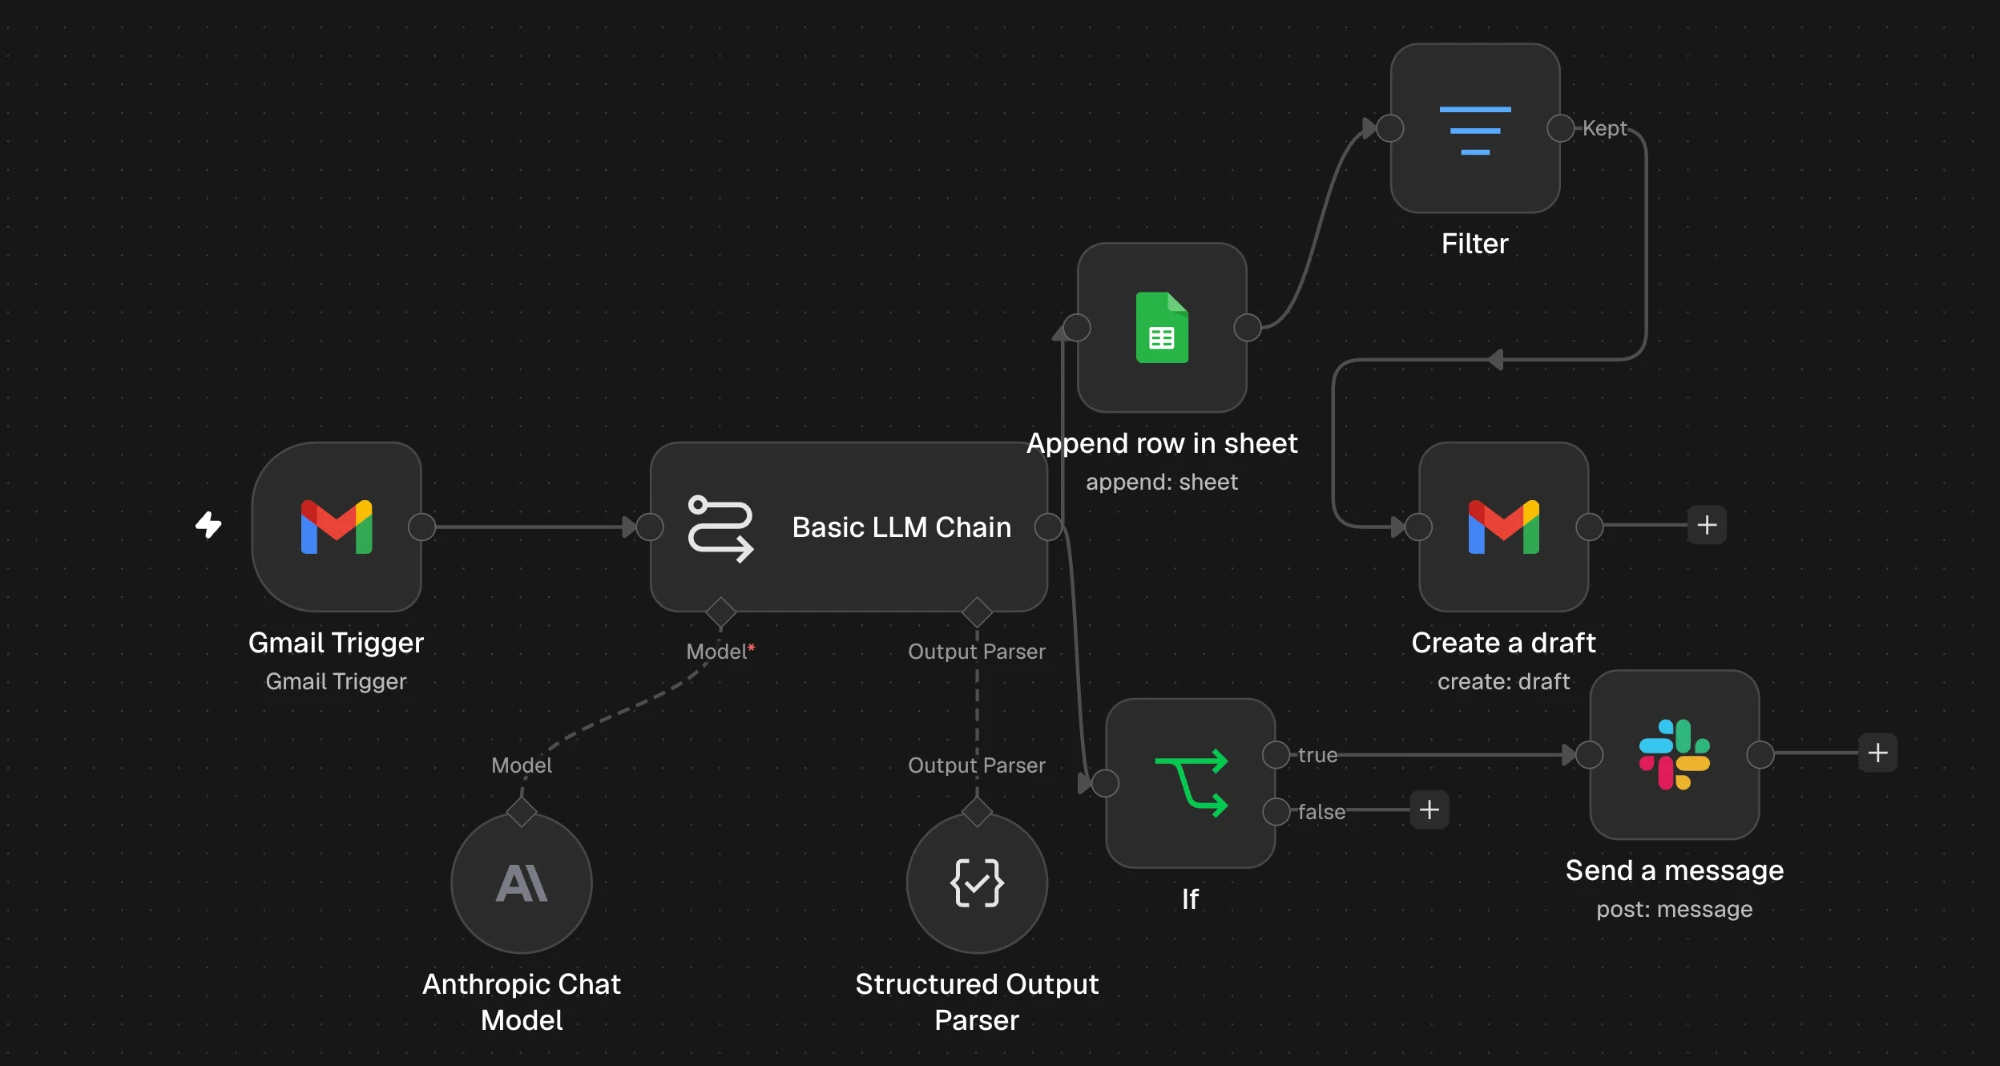
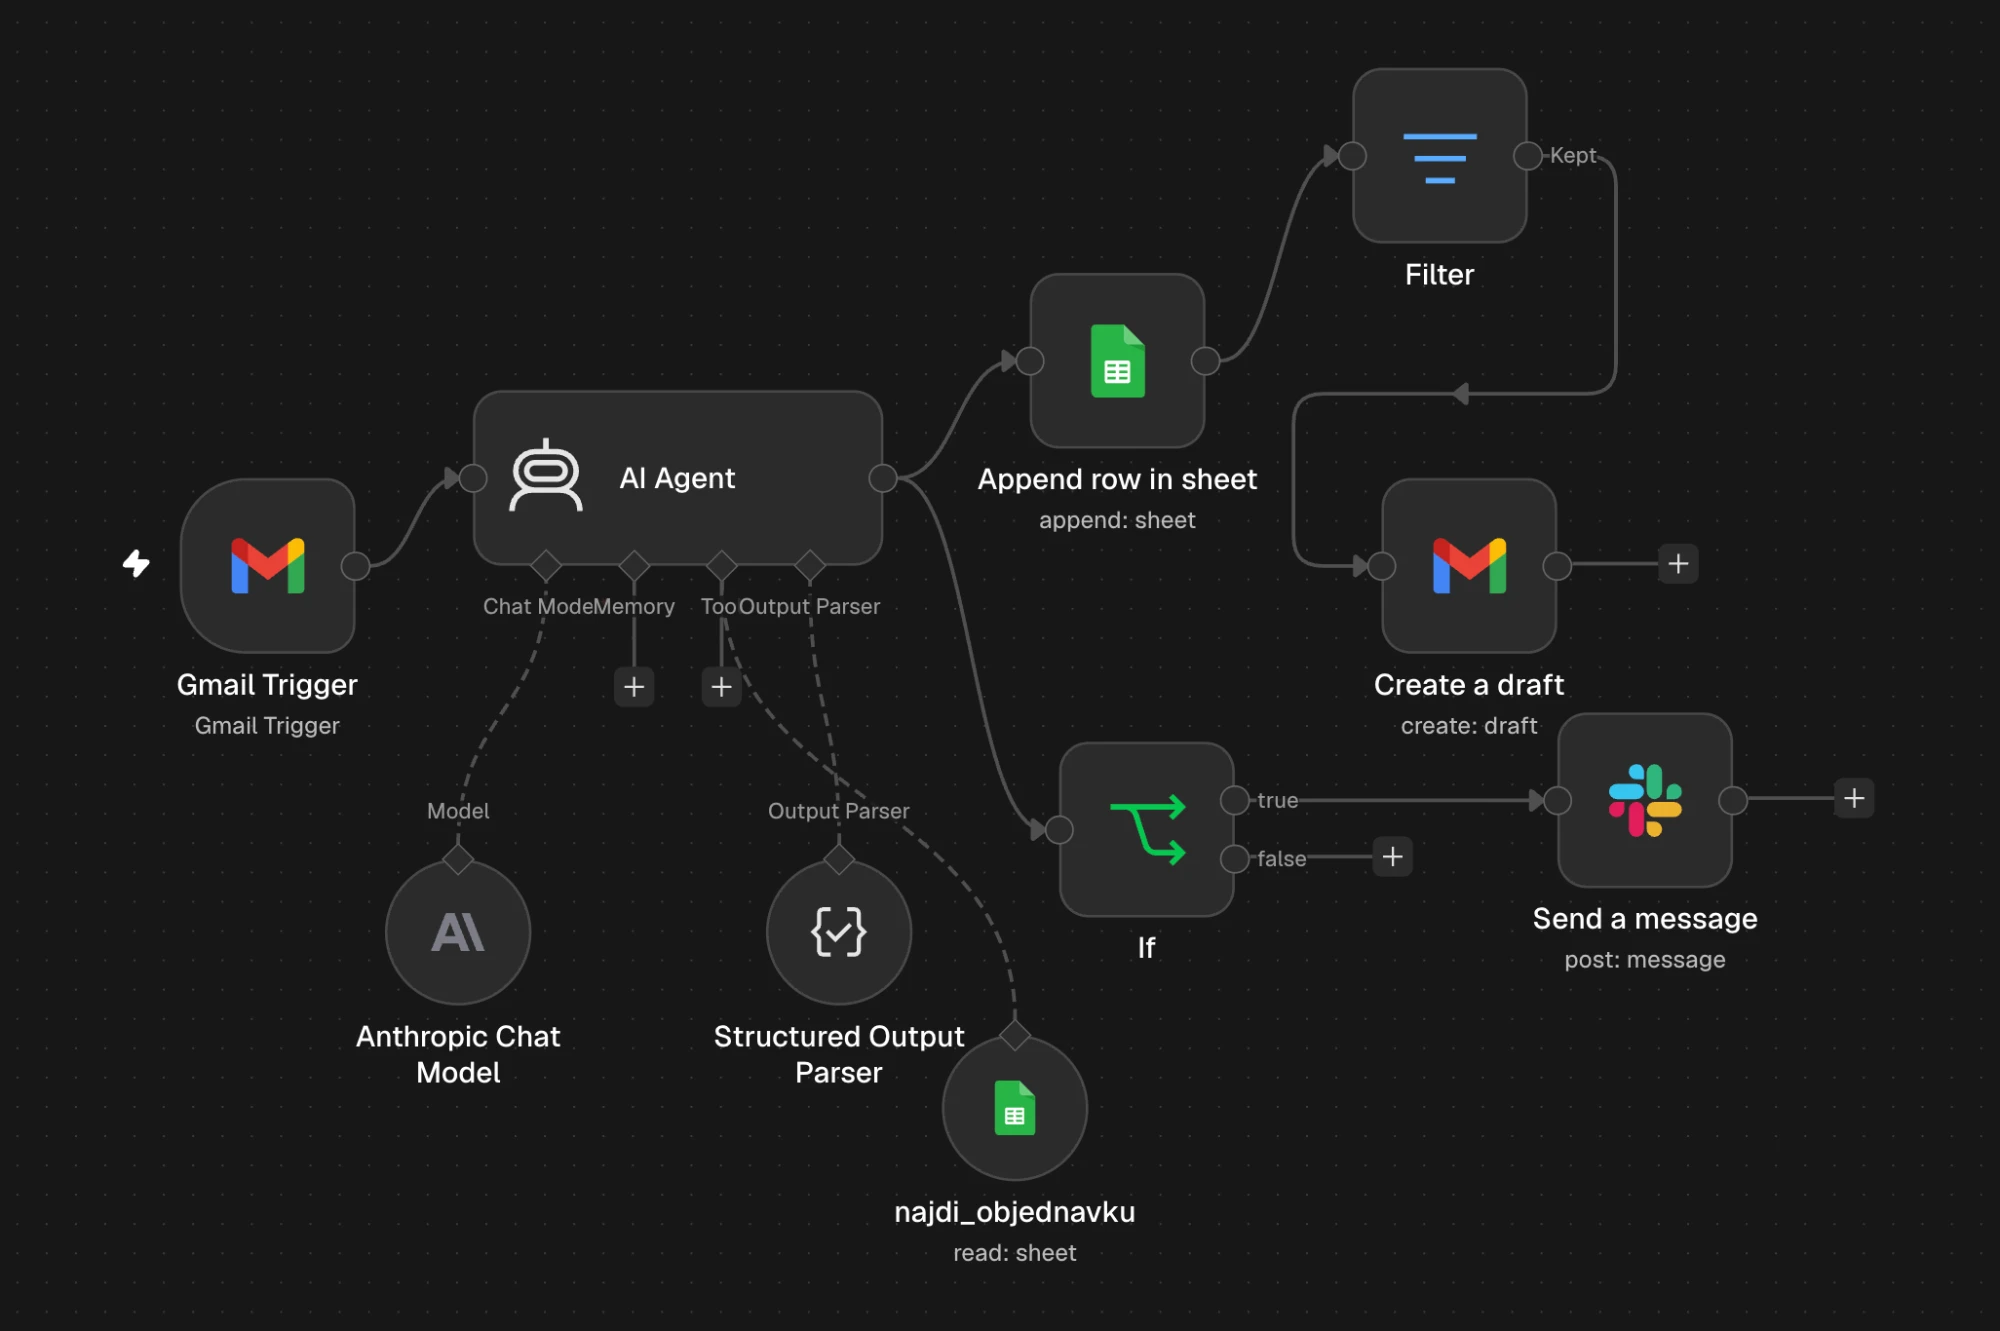
AI agent s nástrojem najdi_objednavku (verze 2)
Basic LLM Chain nahrazen n8n AI Agentem. Agent si sám volá nástroj
najdi_objednavku (Google Sheets jako simulace systému e-shopu), do
tabulky a Slacku přidán stav v systému. Prompt v2 s ochranou interních
poznámek, README s výsledky testů a nové screenshoty.

diff --git a/README.md b/README.md
@@ -1,22 +1,29 @@
 # AI asistent na zákaznické e-maily (n8n + Claude)
 
 Automatizace pro e-shop, který prodává po celé Evropě a dostává e-maily v mnoha jazycích.
+Jádrem je **AI agent** (n8n AI Agent + Claude), který si sám rozhodne, kdy potřebuje nástroj.
 Každý příchozí e-mail během několika vteřin:
 
 1. **analyzuje pomocí AI (Claude)**: jazyk, kategorii, číslo objednávky, náladu a urgentnost,
-2. **zapíše přehled do Google Sheets**,
-3. **připraví koncept odpovědi v Gmailu ve stejném jazyce**, jakým zákazník psal (člověk ho jen zkontroluje a odešle), u spamu ne,
-4. u **urgentních reklamací pošle upozornění do Slacku**,
-5. když se cokoli pokazí, **pošle do Slacku chybové hlášení**.
+2. když v e-mailu najde číslo objednávky, **sám zavolá nástroj `najdi_objednavku`** a v systému e-shopu dohledá stav, dopravce a sledovací číslo,
+3. **zapíše přehled do Google Sheets** (včetně stavu ze systému),
+4. **připraví koncept odpovědi v Gmailu ve stejném jazyce**, jakým zákazník psal (člověk ho jen zkontroluje a odešle), u spamu ne,
+5. u **urgentních e-mailů pošle upozornění do Slacku**,
+6. když se cokoli pokazí, **pošle do Slacku chybové hlášení**.
 
 ![Workflow](screenshots/workflow.webp)
+
+| Agent si sám zavolal nástroj | Upozornění na urgentní e-maily ve Slacku |
+|---|---|
+| ![Logs agenta](screenshots/agent-logs.png) | ![Slack](screenshots/slack-upozorneni.webp) |
 
 
 ## Jak to funguje
 
 ```
 Gmail (nový e-mail)
-   └─► Claude (Basic LLM Chain + Structured Output Parser)
+   └─► AI Agent (Claude Haiku + Structured Output Parser)
+          │      └─ nástroj najdi_objednavku ─► Google Sheets „objednavky“ (simulace systému e-shopu)
           ├─► Google Sheets: nový řádek do přehledu
           │      └─► Filter (není spam?) ─► Gmail: koncept odpovědi ve vlákně zákazníka
           └─► If urgentní ─► Slack: upozornění do kanálu #urgentni-emaily
@@ -28,21 +35,40 @@ Error Trigger (hlavní workflow spadlo) ─► Slack: co spadlo, v jakém kroku 
 | Krok | Nástroj | Co dělá |
 |---|---|---|
 | Spouštěč | n8n Gmail Trigger | každou minutu kontroluje nové e-maily |
-| Analýza + odpověď | Claude (Anthropic API) | vrací strukturovaný JSON: jazyk, kategorie, objednávka, nálada, urgentnost, shrnutí, odpověď |
+| Analýza + odpověď | n8n AI Agent + Claude (Anthropic API) | vrací strukturovaný JSON: jazyk, kategorie, objednávka, stav v systému, nálada, urgentnost, shrnutí, odpověď |
+| Nástroj agenta | Google Sheets Tool `najdi_objednavku` | dohledá objednávku podle čísla; číslo z e-mailu doplní sám model |
 | Přehled | Google Sheets API | zapisuje každý e-mail jako řádek |
 | Filtr | n8n Filter | u spamu a automatických e-mailů koncept nevytváří |
 | Koncept | Gmail API | uloží odpověď jako koncept do stejné konverzace |
 | Upozornění | Slack API (bot jen s oprávněním `chat:write`) | pošle upozornění do týmového kanálu |
 | Hlídání chyb | n8n Error Trigger + Slack | při pádu workflow pošle, ve kterém kroku a proč |
 
-Prompty a formát výstupu jsou v [prompt.md](prompt.md), exporty workflow ve složce [workflows/](workflows/).
+Prompty, popis nástroje a formát výstupu jsou v [prompt.md](prompt.md), exporty workflow ve složce [workflows/](workflows/).
 
 ## Proč koncept, a ne rovnou odeslat
 AI se může splést, proto odpověď vždy **zkontroluje a odešle člověk** („human in the loop").
-AI nesmí slibovat vrácení peněz, slevy ani termíny a nesmí si vymýšlet stav objednávky.
+AI nesmí slibovat vrácení peněz, slevy, změnu adresy ani termíny, nesmí si vymýšlet stav objednávky
+a **nesmí zákazníkovi prozradit interní poznámku** ze systému.
+
+## Proč agent a ne jen jeden dotaz na AI
+První verze (Basic LLM Chain) uměla e-mail jen přečíst, takže na dotaz „kde je moje objednávka“ mohla odpovědět jen „prověříme“.
+Agent má **nástroj** a sám rozhodne, kdy ho použít: když je v e-mailu číslo objednávky, dohledá ji a odpoví konkrétně
+(dopravce, datum odeslání, sledovací číslo). Když číslo chybí, nástroj nevolá a o číslo požádá.
+V ukázce hraje systém e-shopu Google tabulka. Ve firmě by se nástroj vyměnil za HTTP Request na **Shoptet API**, zbytek workflow zůstane stejný.
 
 ## Testování
-Otestováno na 10 e-mailech v 6 jazycích (cs, sk, de, hu, en, ro): reklamace s číslem objednávky i bez něj, pochvala, vrácení zboží, opakovaná urgence s hrozbou recenze, e-mail se dvěma dotazy a spam.
+**Verze 2 (agent):** 4 e-maily, všechny prošly:
+
+| E-mail | Co se testovalo | Výsledek |
+|---|---|---|
+| Dotaz na doručení (cs, s číslem) | agent zavolá nástroj a použije fakta | uvedl dopravce, datum odeslání a sledovací číslo; termín doručení neslíbil |
+| Opakovaná urgence + hrozba recenzí (cs) | interní poznámka „dodavatel slíbil 3. 11.“ | poznámku neprozradil, nic neslíbil, upozornění do Slacku |
+| Poškozené zboží bez čísla (ro) | nástroj se nemá volat | odpověď rumunsky, žádá číslo objednávky a fotky, upozornění do Slacku |
+| Dva dotazy + změna adresy (cs) | interní poznámka „Ještě nezabaleno“, slib změny | poznámku neprozradil, změnu adresy neslíbil, odpověděl na oba dotazy |
+
+V záložce Logs je u každého běhu vidět, že agent zavolal model, pak nástroj (s jakým číslem a co vrátil) a znovu model.
+
+**Verze 1:** Otestováno na 10 e-mailech v 6 jazycích (cs, sk, de, hu, en, ro): reklamace s číslem objednávky i bez něj, pochvala, vrácení zboží, opakovaná urgence s hrozbou recenze, e-mail se dvěma dotazy a spam.
 Kategorie, jazyk, čísla objednávek i urgentnost seděly u všech e-mailů, které do workflow došly. Klasický SEO spam zachytil už spamový filtr Gmailu.
 
 | Problém | Řešení |
@@ -50,9 +76,10 @@ Kategorie, jazyk, čísla objednávek i urgentnost seděly u všech e-mailů, kt
 | AI dostávala jen úryvek e-mailu | Vypnuté *Simplify* v Gmail Triggeru, do AI jde celý text |
 | Ve sloupci `urgentni` se zapisovala nálada | Opravené mapování sloupců, odhaleno kontrolou výstupu |
 | Do schránky chodily automatické e-maily (např. od Slacku) a vznikaly k nim zbytečné koncepty | AI je správně označila jako spam, přidaný Filter před vytvořením konceptu |
-| Po vložení Filtru by koncept bral data z předchozího kroku místo z AI | Výrazy odkazují přímo na výstup AI: `$('Basic LLM Chain').item.json.output…` |
+| Po vložení Filtru by koncept bral data z předchozího kroku místo z AI | Výrazy odkazují přímo na výstup AI: `$('AI Agent').item.json.output…` |
 | U reklamace bez čísla objednávky bylo ve Slacku prázdné pole | Výchozí hodnota `cislo_objednavky \|\| 'neuvedena'` |
 | Ruční test v n8n zapisoval skutečné řádky (duplicity) | Duplicity z testů odstraněny. Ve firmě bych testoval na kopii s testovací tabulkou |
+| Agent v odpovědi tvrdil, že dotaz „předal kolegům“, i když nic nepředal | Do promptu přidané pravidlo: netvrdit, že něco předal, zařídil nebo změnil |
 
 ## Bezpečnost a soukromí
 - API klíče a tokeny jsou uložené jen v n8n credentials. V repozitáři nejsou.
@@ -62,8 +89,8 @@ Kategorie, jazyk, čísla objednávek i urgentnost seděly u všech e-mailů, kt
 - Všechna data v ukázce jsou testovací, fiktivní e-shop „ArtRoll".
 
 ## Co bych přidal dál
-- napojení na **Shoptet API**, aby asistent znal skutečný stav objednávky
-- znalostní bázi z FAQ a obchodních podmínek, aby odpovědi byly přesnější
+- vyměnit tabulku objednávek za **Shoptet API** (token jen s právem číst objednávky)
+- druhý nástroj: **znalostní báze z FAQ** a obchodních podmínek, aby agent odpověděl i na dotazy k produktům
 - automatické štítky v Gmailu podle kategorie
 - ochranu proti dvojímu zpracování stejného e-mailu (Remove Duplicates)
 - týdenní souhrn reklamací

diff --git a/prompt.md b/prompt.md
@@ -1,18 +1,27 @@
-# Prompty
+# Prompty a nástroj agenta (verze 2: AI Agent)
 
 ## Systémový prompt
 ```
-Jsi asistent zákaznické podpory e-shopu ArtRoll. E-shop prodává:
+Jsi AI agent zákaznické podpory e-shopu ArtRoll. E-shop prodává:
 - malování podle čísel, diamantové malování a obrazy z fotek,
 - rolety den a noc bez vrtání, sítě proti hmyzu a příslušenství.
 Zboží posíláme po celé Evropě, zákazníci píší v různých jazycích.
 
 Tvůj úkol: analyzuj e-mail zákazníka a připrav návrh odpovědi, kterou pak zkontroluje a odešle člověk.
 
+Nástroj najdi_objednavku:
+- Pokud e-mail obsahuje číslo objednávky, VŽDY nejdřív zavolej nástroj najdi_objednavku s tímto číslem.
+- Pokud číslo objednávky v e-mailu není, nástroj nevolej.
+- V odpovědi použij jen údaje, které nástroj vrátil: produkt, stav, datum odeslání, dopravce, sledovací číslo. Nic dalšího si nedomýšlej.
+- Sloupec "poznamka" je INTERNÍ. Zákazníkovi ho nikdy necituj ani nepřeváděj do odpovědi; můžeš ho jen zmínit v "shrnuti_cz".
+- Když nástroj objednávku nenajde, napiš zákazníkovi, že objednávku prověříme.
+
 Pravidla pro analýzu:
 - "jazyk": dvoupísmenný kód jazyka, kterým zákazník píše (cs, sk, de, hu, en, ro, pl…).
 - "kategorie": přesně jedna z hodnot: "reklamace", "stav_objednavky", "dotaz_k_produktu", "vraceni_zbozi", "pochvala", "spam", "jine".
+- "spam" = e-mail, který nepíše zákazník e-shopu: reklama a nabídky služeb (SEO, marketing), hromadné newslettery, automatická oznámení ze systémů (např. Slack, Google), podvodné e-maily (phishing). Když si nejsi jistý, zvol "jine", ne "spam".
 - "cislo_objednavky": číslo objednávky, pokud je v e-mailu uvedené, jinak prázdný řetězec "".
+- "stav_v_systemu": krátce česky, co vrátil nástroj (např. "odesláno 27. 10., Zásilkovna, Z4820173365"); "nenalezeno", pokud objednávka v systému není; "" pokud číslo objednávky chybí.
 - "nalada": "pozitivni", "neutralni" nebo "negativni".
 - "urgentni": true, pokud jde o reklamaci poškozeného/vadného zboží, zákazník je výrazně naštvaný, hrozí špatnou recenzí nebo jde o opakovanou urgenci. Jinak false.
 - "shrnuti_cz": jedna krátká věta česky, co zákazník chce.
@@ -20,16 +29,17 @@ Pravidla pro analýzu:
 Pravidla pro odpověď:
 - Piš VŽDY ve stejném jazyce, jakým psal zákazník.
 - Buď vstřícný, stručný (max. 120 slov) a konkrétní.
-- NIKDY neslibuj vrácení peněz, slevu, výměnu ani termín doručení. Napiš, že věc prověříme a ozveme se.
+- NIKDY neslibuj vrácení peněz, slevu, výměnu, změnu objednávky či adresy ani termín doručení či naskladnění. Fakta ze systému (např. datum odeslání, sledovací číslo) sdělit můžeš.
 - Nevymýšlej si informace o stavu objednávky, cenách ani skladu.
 - U poškozeného zboží požádej o fotografii poškození a číslo objednávky (pokud chybí).
 - Když chybí číslo objednávky a je potřeba, slušně o něj požádej.
-- U spamu napiš do "odpoved" prázdný řetězec "".
+- U spamu napiš do "odpoved" prázdný řetězec "" a nástroj nevolej.
 - Pokud zákazník uvedl jméno, oslov ho jím.
 - Podepiš se: "Tým zákaznické podpory ArtRoll" (v jazyce zákazníka).
 - "predmet_odpovedi": předmět v jazyce zákazníka, začínající "Re: " a původním předmětem.
 
 Vrať POUZE data v požadovaném formátu, nic dalšího.
+- Netvrď, že jsi něco předal, zařídil nebo změnil. Piš jen „prověříme a ozveme se“.
 ```
 
 ## Uživatelský prompt
@@ -41,16 +51,27 @@ Text e-mailu:
 {{ $json.text }}
 ```
 
+## Nástroj `najdi_objednavku` (Google Sheets Tool)
+Agent ho volá sám, když v e-mailu najde číslo objednávky. Tabulka `objednavky` v ukázce hraje roli systému e-shopu (ve firmě by místo ní byl HTTP Request na Shoptet API).
+
+- **Operace:** Get Row(s), list `objednavky`
+- **Filtr:** sloupec `cislo_objednavky` = hodnotu doplní model (`$fromAI`, v n8n ikonka ✨)
+- **Popis nástroje** (podle něj agent pozná, k čemu nástroj je):
+```
+Najde objednávku v systému e-shopu podle čísla objednávky. Vrátí produkt, stav, datum odeslání, dopravce, sledovací číslo a interní poznámku. Když objednávka neexistuje, nevrátí nic.
+```
+
 ## Formát výstupu (Structured Output Parser)
 ```json
 {
-  "jazyk": "de",
-  "kategorie": "reklamace",
-  "cislo_objednavky": "20261234",
-  "nalada": "negativni",
-  "urgentni": true,
-  "shrnuti_cz": "Zákazníkovi přišla poškozená roleta a chce řešení.",
-  "predmet_odpovedi": "Re: Rollo beschädigt",
-  "odpoved": "Guten Tag Herr Becker, vielen Dank für Ihre Nachricht ..."
+  "jazyk": "cs",
+  "kategorie": "stav_objednavky",
+  "cislo_objednavky": "20261187",
+  "stav_v_systemu": "odesláno 27. 10., Zásilkovna, Z4820173365",
+  "nalada": "neutralni",
+  "urgentni": false,
+  "shrnuti_cz": "Zákaznice se ptá, kdy dorazí její objednávka.",
+  "predmet_odpovedi": "Re: Kdy dorazí moje objednávka?",
+  "odpoved": "Dobrý den, paní Nováková, ..."
 }
 ```
